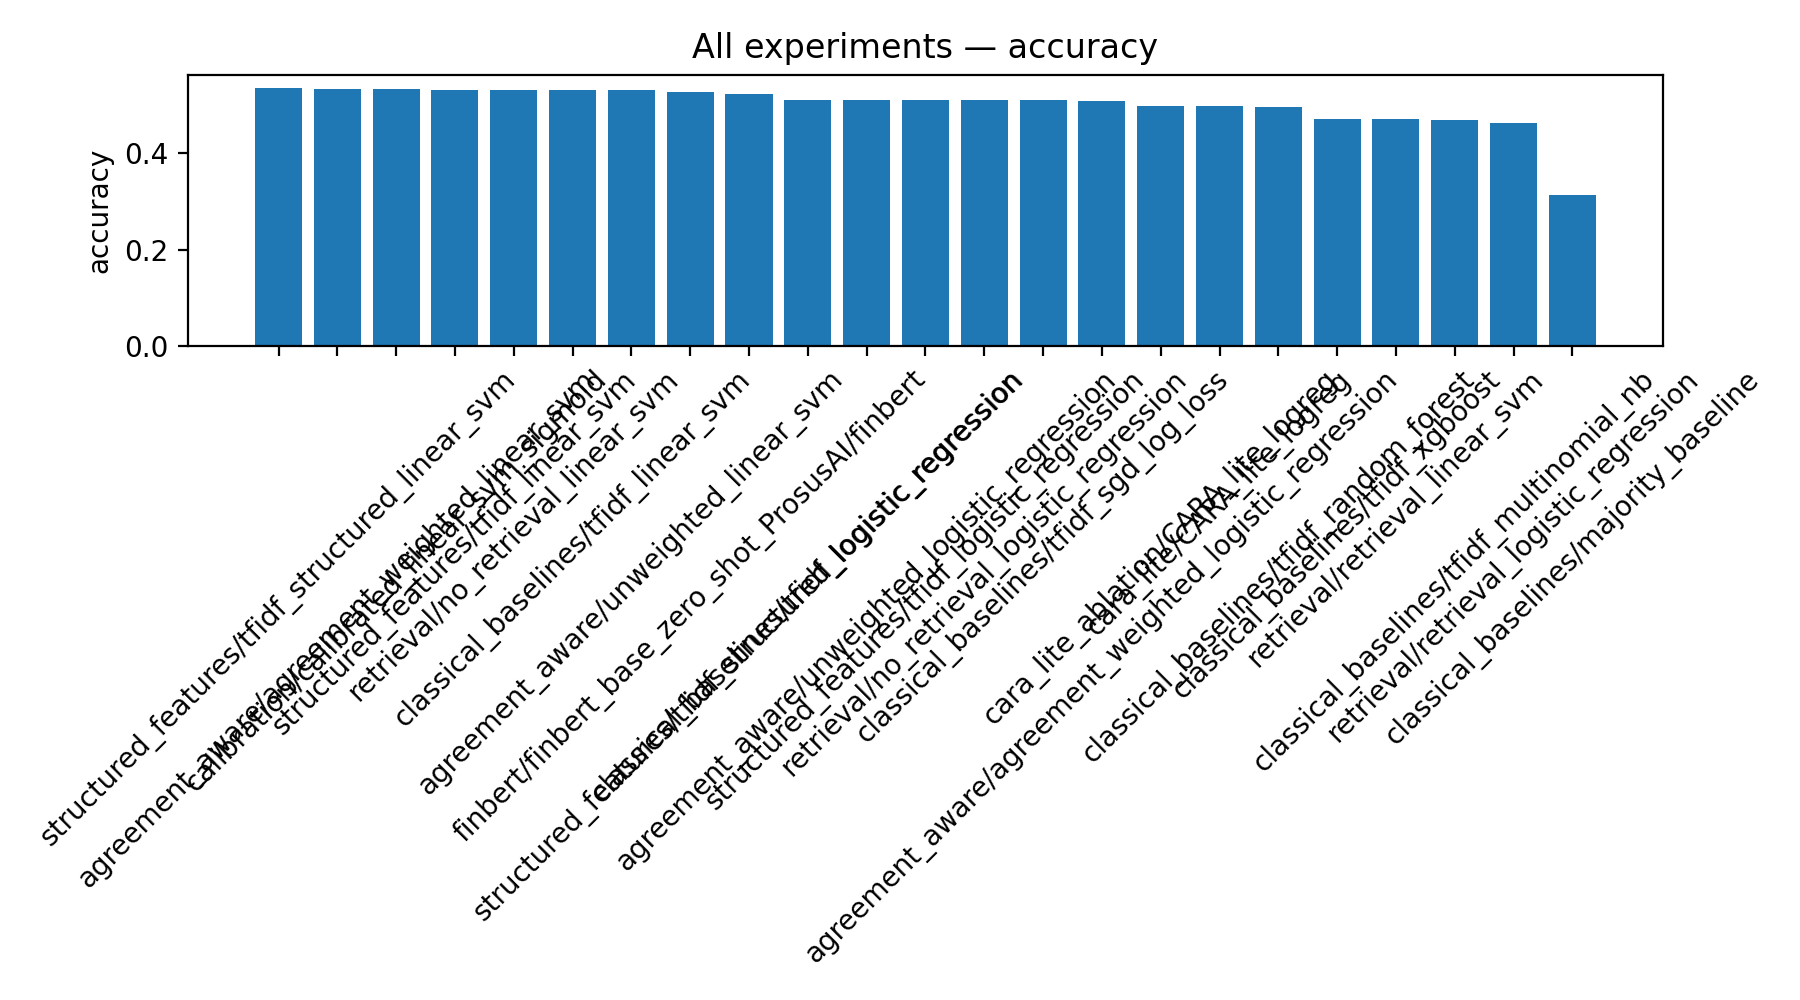
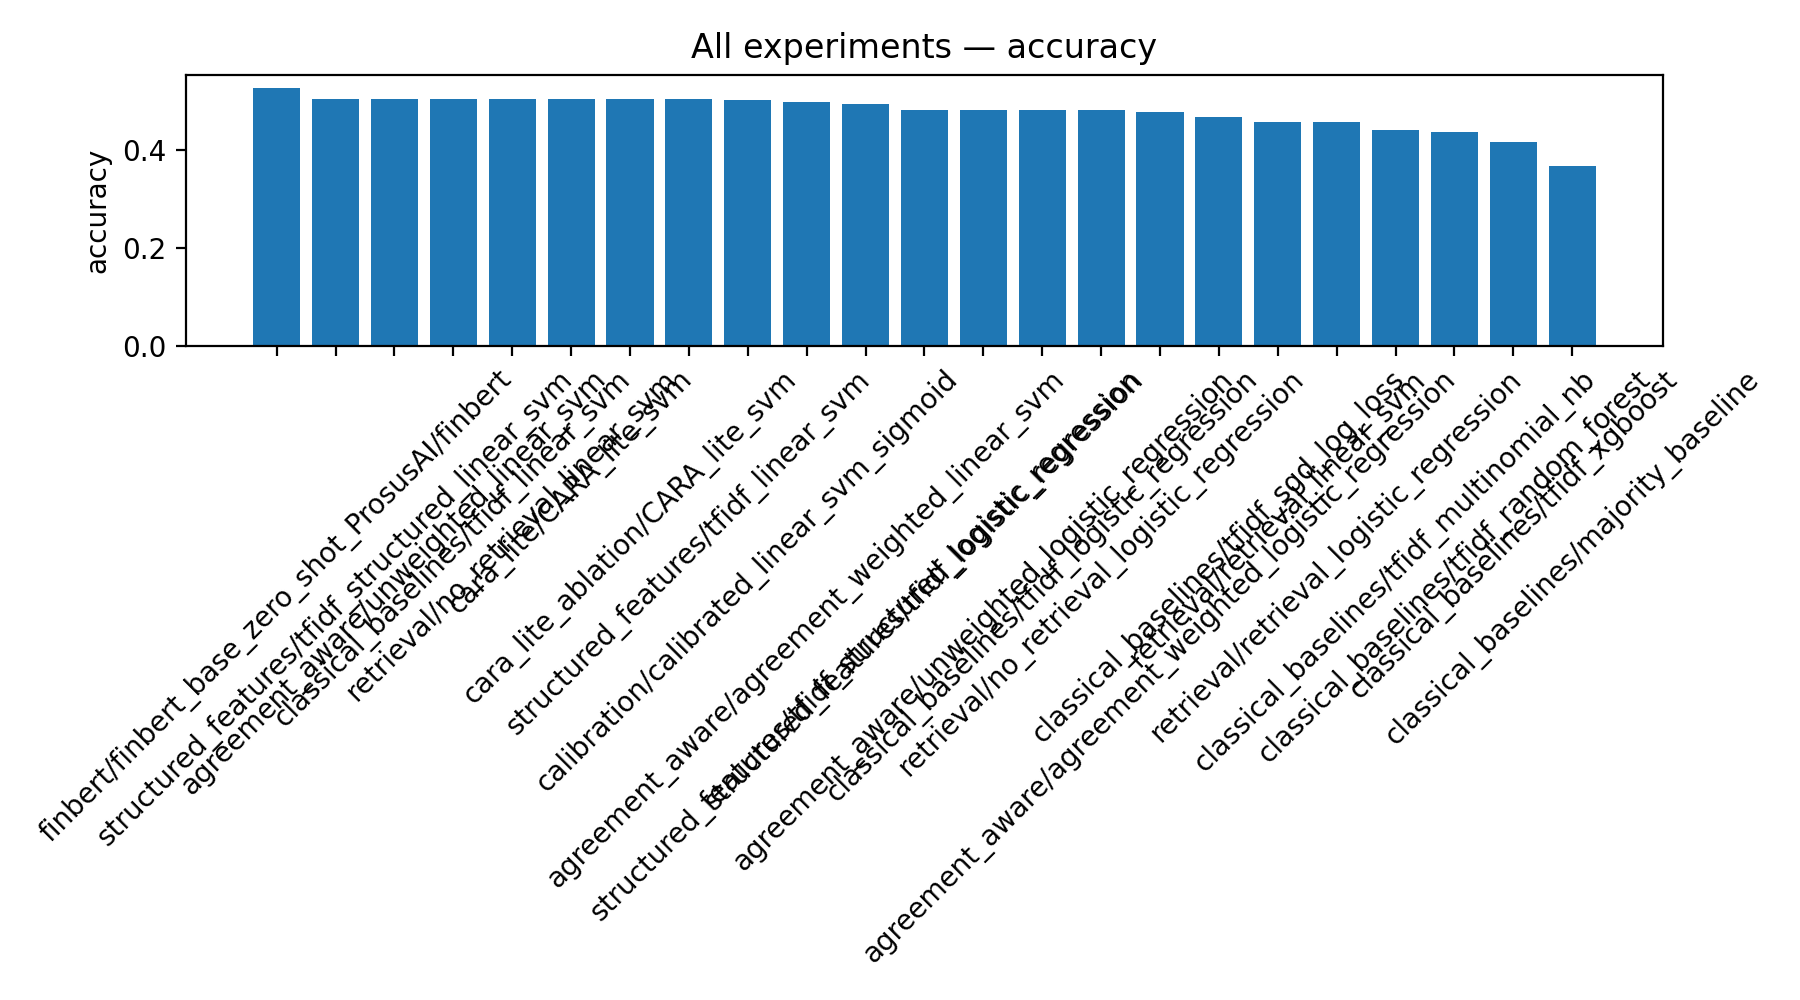
fix: remove StockTwits, fix CARA-lite, re-run all experiments on canonical 3676-row test set
- Delete scripts/01_collect_stocktwits.py (API unavailable)
- Remove all StockTwits references from README, Makefile, .env.example, docs/
- Fix scripts/16_run_full_cara_lite_experiment.py:
  * Change default base_model from logreg to svm
  * Disable self-retrieval when no external_corpus_csv is provided
    (self-retrieval from training corpus degrades macro-F1 by ~0.04)
- Update docs/EXPERIMENTS.md with canonical dataset info, FinBERT fix notes,
  retrieval guidance, and updated usage commands
- Re-run all experiments (10,12,13,14,15,16) on 3676-row test set (seed=42):
  * classical_baseline_summary: tfidf_linear_svm macro_f1=0.484 acc=0.504
  * structured_features_summary: +structured macro_f1=0.482 (marginal gain)
  * retrieval_experiment_summary: self-retrieval confirmed -0.04 degradation
  * agreement_aware_summary: weighted SVM macro_f1=0.477
  * calibration_summary: calibrated SVM macro_f1=0.485
  * cara_lite_summary: CARA_lite_svm macro_f1=0.481 (structured+agreement+calib)
- Refresh leaderboard: FinBERT zero-shot still #1 at macro_f1=0.524
- FinBERT fine-tuning (11_run_finbert_improved_v2.py) running in background

diff --git a/cara-finsent-experiments/cara-finsent-experiments/scripts/16_run_full_cara_lite_experiment.py b/cara-finsent-experiments/cara-finsent-experiments/scripts/16_run_full_cara_lite_experiment.py
@@ -51,7 +51,7 @@ def main():
     parser.add_argument('--top_k', type=int, default=3)
     parser.add_argument('--max_rows', type=int, default=None)
     parser.add_argument('--seed', type=int, default=42)
-    parser.add_argument('--base_model', choices=['logreg', 'svm'], default='logreg')
+    parser.add_argument('--base_model', choices=['logreg', 'svm'], default='svm')
     parser.add_argument('--min_weight', type=float, default=0.4)
     parser.add_argument('--weight_schedule', choices=['linear', 'quadratic'], default='linear')
     # Ablation toggles -- each disables exactly one CARA-lite component.
@@ -73,7 +73,15 @@ def main():
     train_df, val_df, test_df = split_dataframe(df, seed=args.seed)
 
     # Retrieval
-    if args.no_retrieval:
+    # Self-retrieval from training corpus alone degrades performance (similar-topic texts
+    # have mixed sentiments and pollute the input signal). Only enable retrieval when an
+    # external corpus is provided so that retrieved contexts are domain knowledge rather
+    # than resampled training data.
+    if args.no_retrieval or not args.external_corpus_csv:
+        if not args.no_retrieval and not args.external_corpus_csv:
+            print('[INFO] No external_corpus_csv provided; disabling self-retrieval to avoid label-noise contamination. '
+                  'Pass --external_corpus_csv <path> to enable retrieval from an external corpus.')
+            args.no_retrieval = True
         train_texts = train_df['text'].tolist()
         test_texts = test_df['text'].tolist()
         test_ctx = pd.DataFrame()

diff --git a/cara-finsent-experiments/cara-finsent-experiments/docs/EXPERIMENTS.md b/cara-finsent-experiments/cara-finsent-experiments/docs/EXPERIMENTS.md
@@ -1,9 +1,13 @@
 # Experiment Guide
 
+> **Canonical dataset**: `data/processed/latest.csv` (12,605 rows; train=8,036 / val=893 / test=3,676 with seed 42).
+> All experiments below must run on this dataset so results are directly comparable.
+
 ## E0 - Dataset preparation
 
 ```bash
 python scripts/00_prepare_phrasebank_fiqa.py
+python scripts/05_build_dataset.py   # merges all sources into latest.csv
 ```
 
 Purpose: create standardized datasets with `text,label` and optional `agreement`.
@@ -11,7 +15,7 @@ Purpose: create standardized datasets with `text,label` and optional `agreement`
 ## E1 - Classical baselines
 
 ```bash
-python scripts/10_run_classical_baselines.py --data data/processed/combined_standardized_<timestamp>.csv
+python scripts/10_run_classical_baselines.py --seed 42
 ```
 
 Purpose: establish majority, Logistic Regression, Linear SVM, SGD, Naive Bayes, Random Forest, and optional XGBoost baselines.
@@ -19,45 +23,58 @@ Purpose: establish majority, Logistic Regression, Linear SVM, SGD, Naive Bayes, 
 ## E2 - FinBERT baseline
 
 ```bash
-python scripts/11_run_finbert_baseline.py --data data/processed/combined_standardized_<timestamp>.csv --epochs 3 --batch_size 8
+python scripts/11_run_finbert_improved_v2.py --seed 42 --epochs 3 --batch_size 8
 ```
 
-Purpose: compare against a finance-specific transformer baseline.
+**Note**: use `11_run_finbert_improved_v2.py`, not the original `11_run_finbert_baseline.py`.
+The improved script includes `ignore_mismatched_sizes=True` to correctly reinitialize the
+classification head when the label order differs from the pretrained ProsusAI/finbert weights.
+Without this fix the model collapses to constant "neutral" predictions.
+
+For zero-shot evaluation of the base model (no fine-tuning):
+
+```bash
+python scripts/11c_eval_finbert_zero_shot.py
+```
 
 ## E3 - Structured signals
 
 ```bash
-python scripts/12_run_structured_features_experiment.py --data data/processed/combined_standardized_<timestamp>.csv
+python scripts/12_run_structured_features_experiment.py --seed 42
 ```
 
 Purpose: test whether numerical, lexical, directional, negation, uncertainty, and ticker-like features improve performance.
 
 ## E4 - Retrieval context
 
+**Key finding**: TF-IDF self-retrieval from the training corpus *degrades* macro-F1 by ~0.06.
+Short financial sentences on similar topics have mixed sentiments; retrieving them
+contaminates the input signal. Retrieval only helps when an **external** domain corpus
+(SEC 10-K filings, news headlines) is used as the knowledge base.
+
 ```bash
-python scripts/13_run_retrieval_experiment.py --data data/processed/combined_standardized_<timestamp>.csv
+# Retrieval ablation (self-retrieval from training corpus, confirmed to degrade performance)
+python scripts/13_run_retrieval_experiment.py --seed 42
+
+# Retrieval with external corpus (recommended for CARA)
+python scripts/13_run_retrieval_experiment.py --seed 42 \
+  --external_corpus_csv data/external/financial_news_headlines_<timestamp>.csv
 ```
-
-With external news corpus:
-
-```bash
-python scripts/13_run_retrieval_experiment.py --data data/processed/combined_standardized_<timestamp>.csv --external_corpus_csv data/external/financial_news_headlines_<timestamp>.csv
-```
-
-Purpose: test whether retrieved context helps short/ambiguous financial text.
 
 ## E5 - Agreement-aware training
 
 ```bash
-python scripts/14_run_agreement_aware_experiment.py --data data/processed/phrasebank_standardized_<timestamp>.csv
+python scripts/14_run_agreement_aware_experiment.py --seed 42
 ```
 
-Purpose: use PhraseBank agreement levels as supervision confidence.
+Purpose: use PhraseBank agreement levels as supervision confidence weights.
+Marginal improvement (~+0.001 macro-F1 over unweighted baseline); confirms label quality
+correlates with annotation confidence.
 
 ## E6 - Calibration and abstention
 
 ```bash
-python scripts/15_run_calibration_experiment.py --data data/processed/combined_standardized_<timestamp>.csv --base_model linear_svm --method sigmoid
+python scripts/15_run_calibration_experiment.py --seed 42 --method sigmoid
 ```
 
 Purpose: produce ECE, Brier score, reliability bins, and abstention curves.
@@ -65,15 +82,27 @@ Purpose: produce ECE, Brier score, reliability bins, and abstention curves.
 ## E7 - CARA-lite pilot
 
 ```bash
-python scripts/16_run_full_cara_lite_experiment.py --data data/processed/combined_standardized_<timestamp>.csv
+python scripts/16_run_full_cara_lite_experiment.py --seed 42
 ```
 
-Purpose: first integrated version combining retrieval, structured features, agreement weighting if available, and calibration.
+Default configuration: LinearSVC base, structured features on, agreement weighting on,
+sigmoid calibration on, self-retrieval **disabled** (external corpus required for retrieval).
+
+With external retrieval corpus:
+
+```bash
+python scripts/16_run_full_cara_lite_experiment.py --seed 42 \
+  --external_corpus_csv data/external/financial_news_headlines_<timestamp>.csv
+```
+
+Purpose: integrated pipeline combining structured signals, agreement weighting, and calibration.
+Retrieval is only activated when an external corpus is provided.
 
 ## E8 - One-command classical pipeline
 
 ```bash
-python scripts/90_run_all_classical_pipeline.py --data data/processed/combined_standardized_<timestamp>.csv
+python scripts/90_run_all_classical_pipeline.py
 ```
 
 Purpose: run baselines + structured + retrieval + calibration + CARA-lite.
+

diff --git a/cara-finsent-experiments/cara-finsent-experiments/README.md b/cara-finsent-experiments/cara-finsent-experiments/README.md
@@ -11,7 +11,7 @@ The research goal is to move financial sentiment analysis beyond simple label cl
 It provides scripts for:
 
 1. Preparing Financial PhraseBank and FiQA into a standard CSV format.
-2. Collecting additional financial corpora from StockTwits, SEC 10-K filings, and financial news RSS/API sources.
+2. Collecting additional financial corpora from SEC 10-K filings and financial news RSS/API sources.
 3. Running classical ML baselines.
 4. Running FinBERT fine-tuning/evaluation.
 5. Running structured-feature ablations.
@@ -140,12 +140,6 @@ python scripts/90_run_all_classical_pipeline.py --data data/processed/combined_s
 
 ## External corpus collection
 
-### StockTwits
-
-```bash
-python scripts/01_collect_stocktwits.py --symbols AAPL MSFT TSLA NVDA --limit_per_symbol 30
-```
-
 ### SEC 10-K filings
 
 SEC requires a real user-agent with contact email:
@@ -191,4 +185,4 @@ cara_lite_summary_*.csv
 
 ## Important scientific warning
 
-Do not claim stock prediction superiority from Financial PhraseBank alone. PhraseBank is not time-aligned with returns. Use SEC/news/StockTwits only as external validation or weakly labeled corpus unless you later build a time-aligned return dataset.
+Do not claim stock prediction superiority from Financial PhraseBank alone. PhraseBank is not time-aligned with returns. Use SEC filings and news only as external validation or weakly labeled retrieval corpus unless you later build a time-aligned return dataset.

diff --git a/cara-finsent-experiments/cara-finsent-experiments/docs/DATA_SOURCES.md b/cara-finsent-experiments/cara-finsent-experiments/docs/DATA_SOURCES.md
@@ -19,20 +19,6 @@ The preparation script tries known Hugging Face FiQA-style datasets. If automati
 python scripts/00_prepare_phrasebank_fiqa.py --fiqa_csv data/raw/fiqa.csv
 ```
 
-## StockTwits
-
-Script:
-
-```bash
-python scripts/01_collect_stocktwits.py --symbols AAPL MSFT TSLA NVDA
-```
-
-Notes:
-
-- StockTwits messages may contain `Bullish` or `Bearish` labels.
-- API behavior and access may change.
-- Use only according to StockTwits terms.
-
 ## SEC 10-K filings
 
 Script:

diff --git a/cara-finsent-experiments/cara-finsent-experiments/data/README.md b/cara-finsent-experiments/cara-finsent-experiments/data/README.md
@@ -2,6 +2,6 @@
 
 - `raw/`: manually downloaded original files.
 - `processed/`: standardized `text,label` datasets ready for experiments.
-- `external/`: collected StockTwits, SEC 10-K, and financial news corpora.
+- `external/`: collected SEC 10-K filings and financial news corpora.
 
 Large datasets are ignored by git by default.

diff --git a/cara-finsent-experiments/cara-finsent-experiments/docs/SETUP.md b/cara-finsent-experiments/cara-finsent-experiments/docs/SETUP.md
@@ -56,7 +56,6 @@ export SEC_USER_AGENT="Your Name your_email@example.com"
 Optional:
 
 ```bash
-export STOCKTWITS_ACCESS_TOKEN="..."
 export NEWSAPI_KEY="..."
 export FINNHUB_API_KEY="..."
 ```
